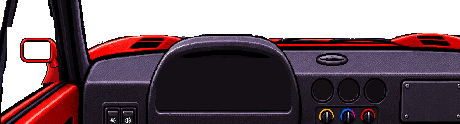
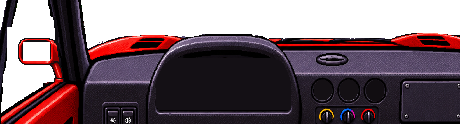
v0.53.16: retrovisor da Fúria F4 desenhado pelo Victor (haste cilíndrica e sapata na porta)
Claude-Session: https://claude.ai/code/session_01MLD9VR7gkmY4w6a9beZcp6

Changed region(s): [[0.0304, 0.3145, 0.1522, 0.6774], [0.0609, 0.2903, 0.1217, 0.4355]]

diff --git a/tools/ref/f40_cockpit2.py b/tools/ref/f40_cockpit2.py
@@ -64,12 +64,11 @@ TRI = [(115, 50), (122, 100), (153, 200), (178, 290), (52, 290), (63, 250), (75,
 FAR = [(0, 0), (70, 0), (48, 100), (26, 200), (5, 300), (0, 300)]  # vidro à esquerda da moldura da porta
 MIR_SEED = (100, 370)           # vidro do retrovisor externo
 MIR_GLASS = (25, 322, 171, 427, 12)  # o vidro (cantos redondos), medido
-OLD_K = 0.54                    # escala do retrovisor antigo em relação à cabine (carcaça + vidro cabem até a coluna)
-OLD_HOUSING_LT = (28, 270)      # canto de cima à esquerda da carcaça na arte antiga
-OLD_GLASS = (62, 297, 232, 396, 16)   # vidro do retrovisor na arte antiga
-OLD_FRAME_SEED = (40, 350)      # um ponto da moldura vermelha na arte antiga
-FOOT = [(45, 137), (60, 135), (60, 160), (41, 160), (43, 156), (46, 150), (47, 143)]  # pé (col, linha do empilhado)
-OLD_MIR_AT = (19, 113)          # onde cai o canto da carcaça no empilhado (coluna, linha)
+VM_ORG, VM_SX, VM_SY = (-202.0, -665.0), 12.3, 11.2   # print do Victor: x = org + coluna * sx, y = org + linha * sy
+VM_AT, VM_SIZE = (16, 110), (50, 52)   # janela do recorte no empilhado (coluna, linha) e tamanho
+VM_SEED = (60, 700)             # um ponto da moldura vermelha no print
+VM_GLASS = (76, 662, 418, 864)  # vidro do retrovisor no print (a vista de trás do jogo)
+VM_DOOR_Y, VM_MAX_X = 1108, 585   # abaixo disto é a porta; à direita, a coluna
 MIR_MAX_COL = 100                # não passa daqui (à direita da coluna é o para-brisa)
 WS_PROBE = (200, 60)            # um ponto do para-brisa (col, linha)
 MIR_ERASE_TOP = 288             # o retrovisor da arte nova começa aqui (arte)
@@ -183,27 +182,49 @@ def mir_glass(H, W):
     return mm > 0
 
 
-def old_mirror(old):
-    """retrovisor esquerdo da arte anterior: carcaça e braço vermelhos (componente que contém a moldura),
-    o contorno escuro colado neles e o vidro (retângulo de cantos redondos medido)"""
-    H, W = old.shape[:2]
-    yy, xx = np.mgrid[0:H, 0:W]
-    hsv = cv2.cvtColor(old, cv2.COLOR_RGB2HSV_FULL).astype(int)
+def victor_cut(art, pal, out):
+    """recorte nativo do retrovisor desenhado pelo Victor: peça vermelha (carcaça, haste, sapata) pelo
+    componente vermelho que contém a moldura, o contorno escuro colado nela e o vidro (retângulo medido)"""
+    H, W = art.shape[:2]
+    c0, r0 = VM_AT
+    cols, rows = VM_SIZE
+    part = np.zeros((rows, cols), bool)
+    dark = np.zeros((rows, cols), bool)
+    rgb = np.zeros((rows, cols, 3), np.uint8)
+    hsv = cv2.cvtColor(art, cv2.COLOR_RGB2HSV_FULL).astype(int)
     hue = hsv[..., 0] * 360 / 256
-    red = ((hue < 22) | (hue > 330)) & (hsv[..., 1] > 60) & (hsv[..., 2] > 30)
-    box = (xx < 345) & (yy > 262) & (yy < 462)
-    n, lab = cv2.connectedComponents((red & box).astype(np.uint8), connectivity=8)
-    part = lab == lab[OLD_FRAME_SEED[1], OLD_FRAME_SEED[0]]
-    x0, y0, x1, y1, r = OLD_GLASS
-    g = np.zeros((H, W), np.uint8)
-    cv2.rectangle(g, (x0 + r, y0), (x1 - r, y1), 1, -1)
-    cv2.rectangle(g, (x0, y0 + r), (x1, y1 - r), 1, -1)
-    for cx, cy in ((x0 + r, y0 + r), (x1 - r, y0 + r), (x0 + r, y1 - r), (x1 - r, y1 - r)):
-        cv2.circle(g, (cx, cy), r, 1, -1)
-    glass = g > 0
-    dark = old.astype(int).mean(axis=2) < 70
-    ring = (cv2.dilate((part | glass).astype(np.uint8), np.ones((9, 9), np.uint8)) > 0) & dark & box
-    return (part | ring) & ~glass, glass
+    red = ((hue < 25) | (hue > 330)) & (hsv[..., 1] > 70) & (hsv[..., 2] > 60)
+    yy, xx = np.mgrid[0:H, 0:W]
+    red &= (yy < VM_DOOR_Y) & (xx < VM_MAX_X)
+    n, lab = cv2.connectedComponents(red.astype(np.uint8), connectivity=8)
+    comp = lab == lab[VM_SEED[1], VM_SEED[0]]
+    lum = art.astype(int).mean(axis=2)
+    for j in range(rows):
+        for i in range(cols):
+            ax = int(VM_ORG[0] + (c0 + i + 0.5) * VM_SX)
+            ay = int(VM_ORG[1] + (r0 + j + 0.5) * VM_SY)
+            if not (1 <= ax < W - 1 and 1 <= ay < H - 1):
+                continue
+            blk = (slice(ay - 1, ay + 2), slice(ax - 1, ax + 2))
+            rgb[j, i] = np.median(art[blk].reshape(-1, 3), axis=0)
+            part[j, i] = comp[blk].mean() > 0.5
+            dark[j, i] = lum[blk].mean() < 45
+    gx0, gy0, gx1, gy1 = VM_GLASS
+    jj, ii = np.mgrid[0:rows, 0:cols]
+    cx = VM_ORG[0] + (c0 + ii + 0.5) * VM_SX
+    cy = VM_ORG[1] + (r0 + jj + 0.5) * VM_SY
+    glass = (cx > gx0) & (cx < gx1) & (cy > gy0) & (cy < gy1)
+    part &= ~glass
+    ring = (cv2.dilate((part | glass).astype(np.uint8), np.ones((3, 3), np.uint8)) > 0) & dark & ~part & ~glass & (cx < VM_MAX_X) & (cy < VM_DOOR_Y)
+    o = np.zeros((rows, cols, 4), np.uint8)
+    for j, i in zip(*np.nonzero(part)):
+        c = rgb[j, i].astype(int)
+        o[j, i, :3] = pal[np.argmin(((pal - c) ** 2).sum(axis=1))]
+        o[j, i, 3] = 255
+    o[ring, :3] = (16, 15, 18)
+    o[ring, 3] = 255
+    o[glass, 3] = 1
+    Image.fromarray(o, 'RGBA').save(out, optimize=True)
 
 
 def clean(nw, roof):
@@ -293,47 +314,26 @@ def main():
     for i in range(1, n):  # ilhas opacas soltas no vidro (até 40 px)
         if stt[i, cv2.CC_STAT_AREA] <= 40:
             st_al[lab == i] = False
-    # retrovisor externo: o da cabine anterior (arte cab-old.png = ca1dd71f, v0.53.7), reamostrado da arte
-    # a OLD_K da escala da cabine para a carcaça e o vidro caberem entre a borda do celular (coluna 18) e
-    # a coluna. Fica do LADO DE FORA: só entra onde é janela da porta, então a coluna, a borracha da janela
-    # e a porta passam na frente do braço e do pé (o braço aparece saindo de trás da coluna)
-    old = np.array(Image.open(os.path.join(d, 'cab-old.png')).convert('RGB'))
-    opart, oglass = old_mirror(old)
-    n, lab = cv2.connectedComponents((~st_al).astype(np.uint8), connectivity=4)
-    winreg = (lab > 0) & (lab != lab[WS_PROBE[1], WS_PROBE[0]])   # janelas da porta (não o para-brisa)
-    step_x, step_y = PXW / OLD_K, PXH / OLD_K
-    ax0, ay0 = OLD_HOUSING_LT                 # canto de cima à esquerda da carcaça, na arte antiga
-    c0, r0 = OLD_MIR_AT                       # onde ele cai no empilhado (coluna, linha)
-    H0, W0 = old.shape[:2]
-    for y in range(st_al.shape[0]):
-        for x in range(MIR_MAX_COL):
-            if not winreg[y, x]:
-                continue
-            ax = int(ax0 + (x - c0 + 0.5) * step_x)
-            ay = int(ay0 + (y - r0 + 0.5) * step_y)
-            if not (0 <= ax < W0 and 0 <= ay < H0):
-                continue
-            if oglass[ay, ax]:
+    # retrovisor externo: o que o Victor redesenhou sobre um print ampliado do jogo (victor-mirror.png):
+    # carcaça com vidro, haste cilíndrica inclinada e sapata assentada na borda de cima da porta. O print
+    # é alinhado com a cabine (VM_ORG, VM_SX, VM_SY, achados casando a coluna e a porta) e cada bloco é
+    # amostrado no miolo e levado à paleta de vermelhos da cabine; o recorte nativo fica em
+    # f40_mirror_victor.png (alfa 255 = peça, 1 = vidro) para o script rodar sem o print
+    cut_path = os.path.join(os.path.dirname(__file__), 'f40_mirror_victor.png')
+    vm_path = os.path.join(d, 'victor-mirror.png')
+    if os.path.exists(vm_path):
+        pal = np.unique(st_rgb[red_mask(st_rgb, st_al) & st_pz].reshape(-1, 3), axis=0).astype(int)
+        victor_cut(np.array(Image.open(vm_path).convert('RGB')), pal, cut_path)
+    vm = np.array(Image.open(cut_path).convert('RGBA'))
+    c0, r0 = VM_AT
+    for j in range(vm.shape[0]):
+        for i in range(vm.shape[1]):
+            y, x = r0 + j, c0 + i
+            if vm[j, i, 3] == 255:
+                st_rgb[y, x], st_al[y, x] = vm[j, i, :3], True
+                st_pz[y, x] = int(vm[j, i, 0]) > int(vm[j, i, 1]) + 50
+            elif vm[j, i, 3] == 1:
                 st_al[y, x], st_pz[y, x], st_mir[y, x] = False, False, True
-            elif opart[ay, ax]:
-                st_rgb[y, x], st_al[y, x] = old[ay, ax], True
-                st_pz[y, x] = True
-    # pé do retrovisor: base triangular que desce da carcaça até a borda de cima da porta (o braço da arte
-    # antiga some atrás da coluna e ficava no ar); só onde é janela, então a coluna fica na frente dele.
-    # Sombreado como a carcaça: contorno escuro à esquerda, filete claro, vermelho e sombra à direita
-    foot = cv2.fillPoly(np.zeros(st_al.shape, np.uint8), [np.array(FOOT, np.int32)], 1) > 0
-    pal = [(16, 15, 18), (255, 96, 84), (226, 24, 22), (196, 14, 14), (150, 8, 10)]
-    for y in range(st_al.shape[0]):
-        xs = np.nonzero(foot[y])[0]
-        if not len(xs):
-            continue
-        xl = xs.min()
-        for x in xs:
-            if st_al[y, x] or not winreg[y, x]:
-                continue
-            k = x - xl
-            col = pal[0] if k == 0 else pal[1] if k == 1 else pal[2] if k <= 4 else pal[3] if k <= 6 else pal[4]
-            st_rgb[y, x], st_al[y, x], st_pz[y, x] = col, True, k > 0
     pm = red_mask(st_rgb, st_al) & st_pz
     for name, sl in (('top', slice(0, EXT)), ('dash', slice(EXT, None))):
         Image.fromarray(np.dstack([st_rgb[sl], st_al[sl].astype(np.uint8) * 255]), 'RGBA').save(os.path.join(out, f'f40-{name}.png'), optimize=True)
